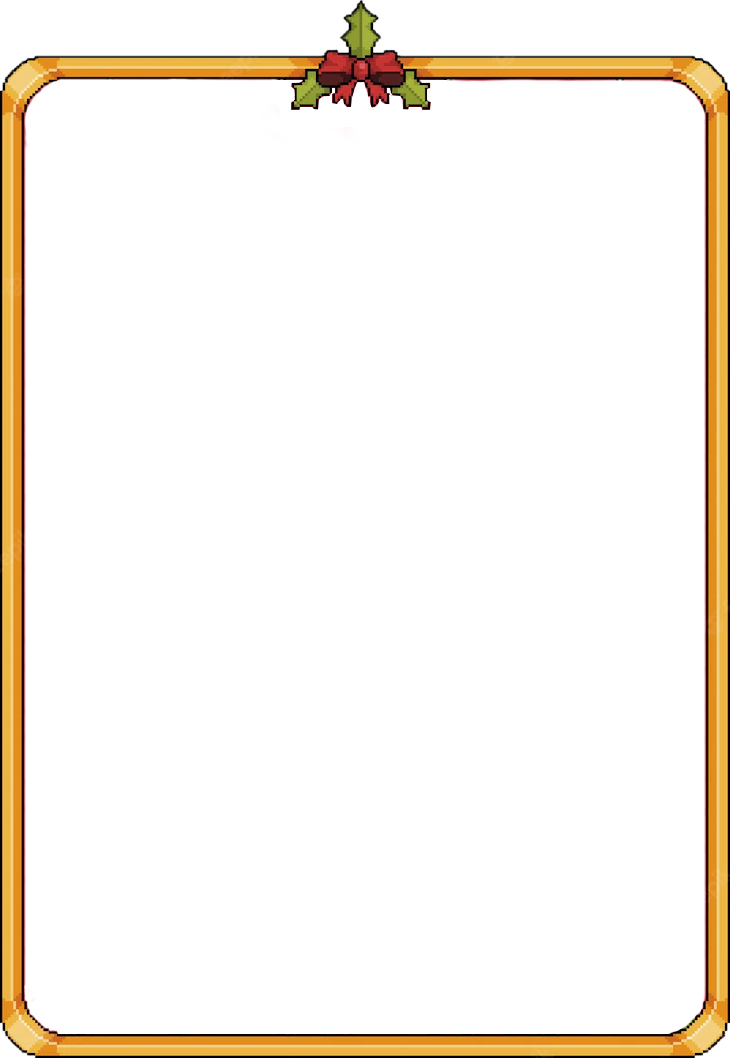
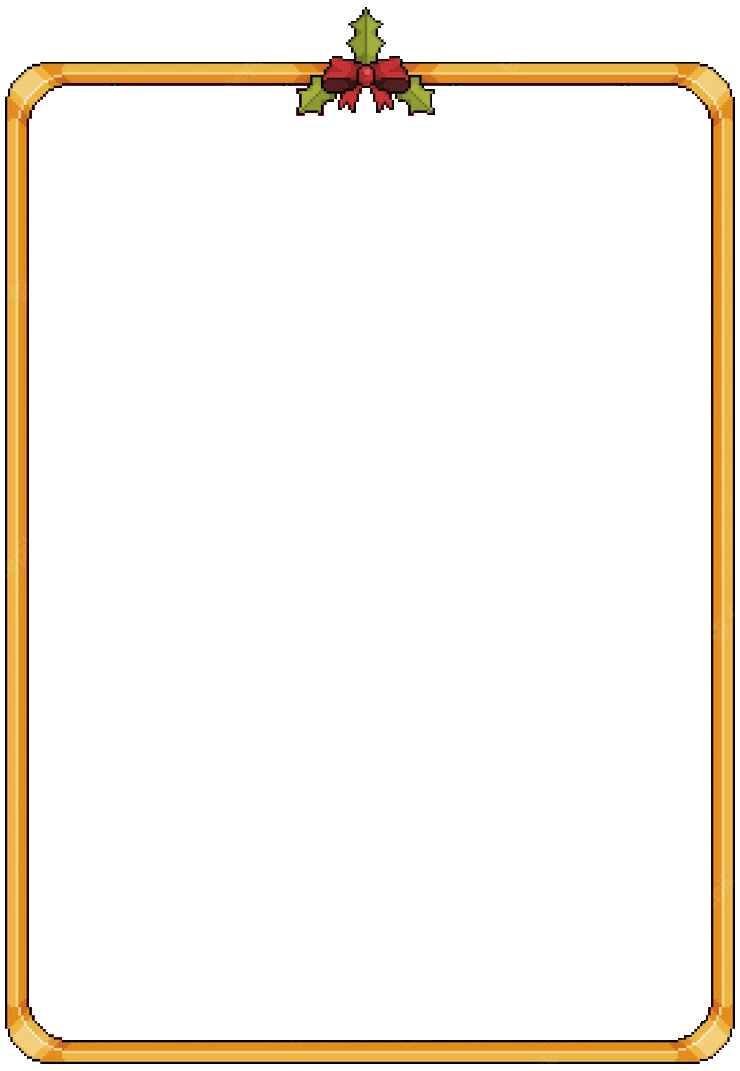
Adjust image's posision and improve images's quality

Changed region(s): [[0.0, 0.0, 1.0, 1.0]]

diff --git a/tetris.py b/tetris.py
@@ -14,7 +14,7 @@ class Tetris():
         self.speed_surface = pg.Surface((175, 175), pg.SRCALPHA, 32).convert_alpha()
         self.tetromino_queue_surface = pg.Surface(TETROMINO_QUEUE_RES)
         self.tetris_background_image = self.load_image('images/background/tetris_background.png', TETRIS_WIDTH, TETRIS_HEIGHT)
-        self.tetris_border_image = self.load_image('images/background/tetris_border.png', TETRIS_WIDTH + 34, TETRIS_HEIGHT + 93)
+        self.tetris_border_image = self.load_image('images/background/tetris_border.png', TETRIS_WIDTH + 38, TETRIS_HEIGHT + 118)
         self.create_last_action_time()
         self.create_moving_action()
         self.create_tetris_matrix()
@@ -227,30 +227,13 @@ class Tetris():
         self.app.display_screen.blit(self.tetromino_queue_surface, TETROMINO_QUEUE_SURFACE_POS)
 
 
-    # def draw_score(self, margin_x = 0, margin_y = 0):
-    #     self.score_surface.fill('white')
-    #     pixel_font = pg.font.Font('fonts/PixelatedRegular.ttf', FONT_SIZE_SCORE)
-    #     labels = []
-    #     texts = [f'Score:    {self.score}', f'Level:    {self.level}', f'Next level:    {self.score_to_reach_next_level}', f'Fall frequency:    {self.fall_frequency} s']
-
-    #     for line in range(len(texts)):
-    #         labels.append(pixel_font.render(texts[line], 1, 'orange'))
-
-    #     self.score_surface.blit(labels[0], (margin_x, margin_y + FONT_SIZE_SCORE * 0))
-    #     self.score_surface.blit(labels[1], (margin_x, margin_y + FONT_SIZE_SCORE * 1))
-    #     self.score_surface.blit(labels[2], (margin_x, margin_y + FONT_SIZE_SCORE * 2))
-    #     self.score_surface.blit(labels[3], (margin_x, margin_y + FONT_SIZE_SCORE * 3))
-
-    #     self.app.display_screen.blit(self.score_surface, DRAW_SCORE_POS)
-
-
     def draw_score(self):
         score_background_image = self.load_image('images/background/sign_0.png', 300, 175)
         pixel_font = pg.font.Font('fonts/PixelatedRegular.ttf', FONT_SIZE_SCORE)
         score_text = pixel_font.render('SCORE', 1, 'white')
         score_number_text = pixel_font.render(str(self.score), 1, 'white')
         self.score_surface.blit(score_background_image, (0, 0))
-        self.score_surface.blit(score_text, (100, 18))
+        self.score_surface.blit(score_text, (100, 20))
         self.score_surface.blit(score_number_text, (70, 100))
         self.app.display_screen.blit(self.score_surface, (DRAW_SCORE_POS))
 
@@ -261,7 +244,7 @@ class Tetris():
         next_level_text = pixel_font.render('NEXT   LV', 1, 'white')
         next_level_number_text = pixel_font.render(str(self.score_to_reach_next_level), 1, 'white')
         self.next_level_surface.blit(next_level_background_image, (0, 0))
-        self.next_level_surface.blit(next_level_text, (80, 18))
+        self.next_level_surface.blit(next_level_text, (80, 20))
         self.next_level_surface.blit(next_level_number_text, (70, 100))
         self.app.display_screen.blit(self.next_level_surface, (DRAW_NEXT_LEVEL_POS))
 
@@ -272,7 +255,7 @@ class Tetris():
         level_text = pixel_font.render('LEVEL', 1, 'white')
         level_number_text = pixel_font.render(str(self.level), 1, 'white')
         self.level_surface.blit(level_background_image, (0, 0))
-        self.level_surface.blit(level_text, (42, 18))
+        self.level_surface.blit(level_text, (42, 20))
         self.level_surface.blit(level_number_text, (50, 100))
         self.app.display_screen.blit(self.level_surface, (DRAW_LEVEL_POS))
 
@@ -283,7 +266,7 @@ class Tetris():
         speed_text = pixel_font.render('SPEED', 1, 'white')
         speed_number_text = pixel_font.render(f'drop/{str(self.fall_frequency)} s', 1, 'white')
         self.speed_surface.blit(speed_background_image, (0, 0))
-        self.speed_surface.blit(speed_text, (42, 18))
+        self.speed_surface.blit(speed_text, (42, 20))
         self.speed_surface.blit(speed_number_text, (20, 100))
         self.app.display_screen.blit(self.speed_surface, (DRAW_SPEED_POS))
 
@@ -305,7 +288,7 @@ class Tetris():
         self.tetris_surface.blit(text_surface_2, text_2_rect)
         # Vẽ tetris surface lên main surface
         self.app.display_screen.blit(self.tetris_surface, TETRIS_SURFACE_POS)
-        self.draw_tetris_border(TETRIS_SURFACE_POS + (-17, -70)) # Vẽ khung lên main surface (display_screen)
+        self.draw_tetris_border(TETRIS_SURFACE_POS + (-17, -87)) # Vẽ khung lên main surface (display_screen)
         while not self.is_pressed():
             pg.display.flip()
             self.app.fps_clock.tick()

diff --git a/app.py b/app.py
@@ -44,7 +44,7 @@ class App():
         self.draw_main_background()
         self.tetris.draw()
         self.display_screen.blit(self.tetris.tetris_surface, TETRIS_SURFACE_POS)
-        self.tetris.draw_tetris_border(TETRIS_SURFACE_POS + (-17, -70))
+        self.tetris.draw_tetris_border(TETRIS_SURFACE_POS + (-17, -87))
         pg.display.flip()
         self.fps_clock.tick(FPS)
 

diff --git a/code_test.py b/code_test.py
@@ -1,4 +1,2 @@
 from game_settings import *
 
-list = [[0] * 6 for i in range(3)]
-print(list)
